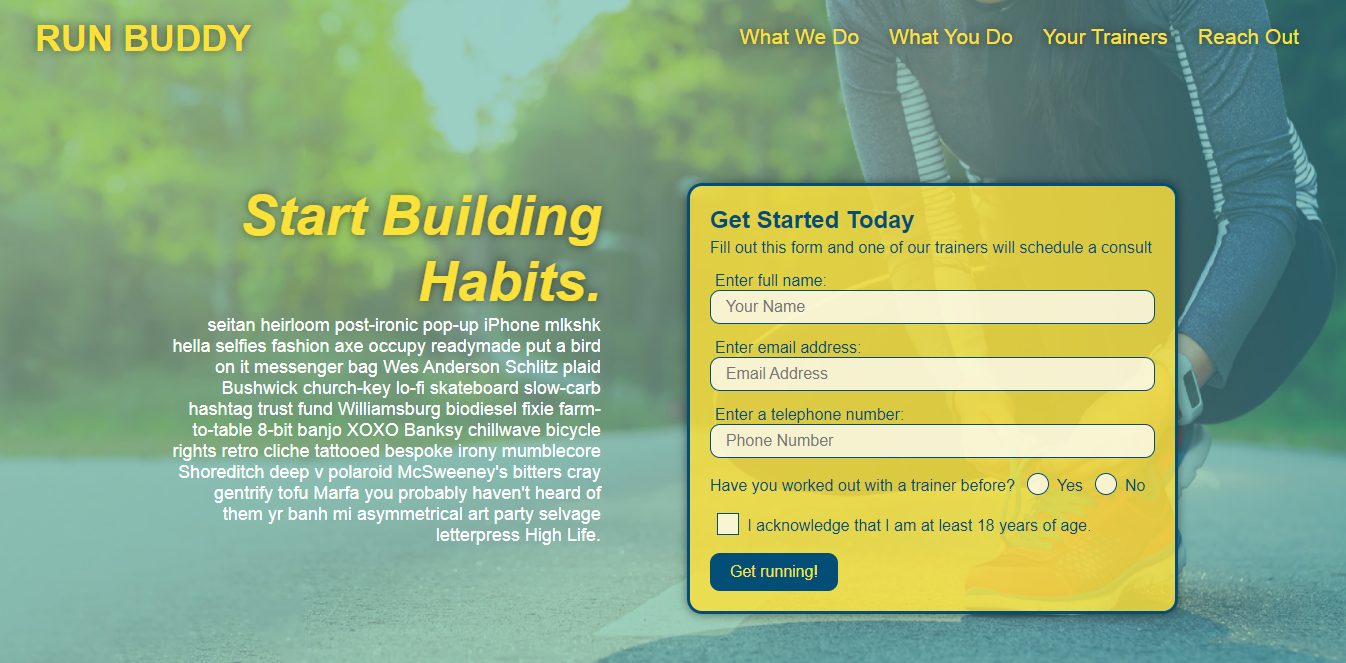
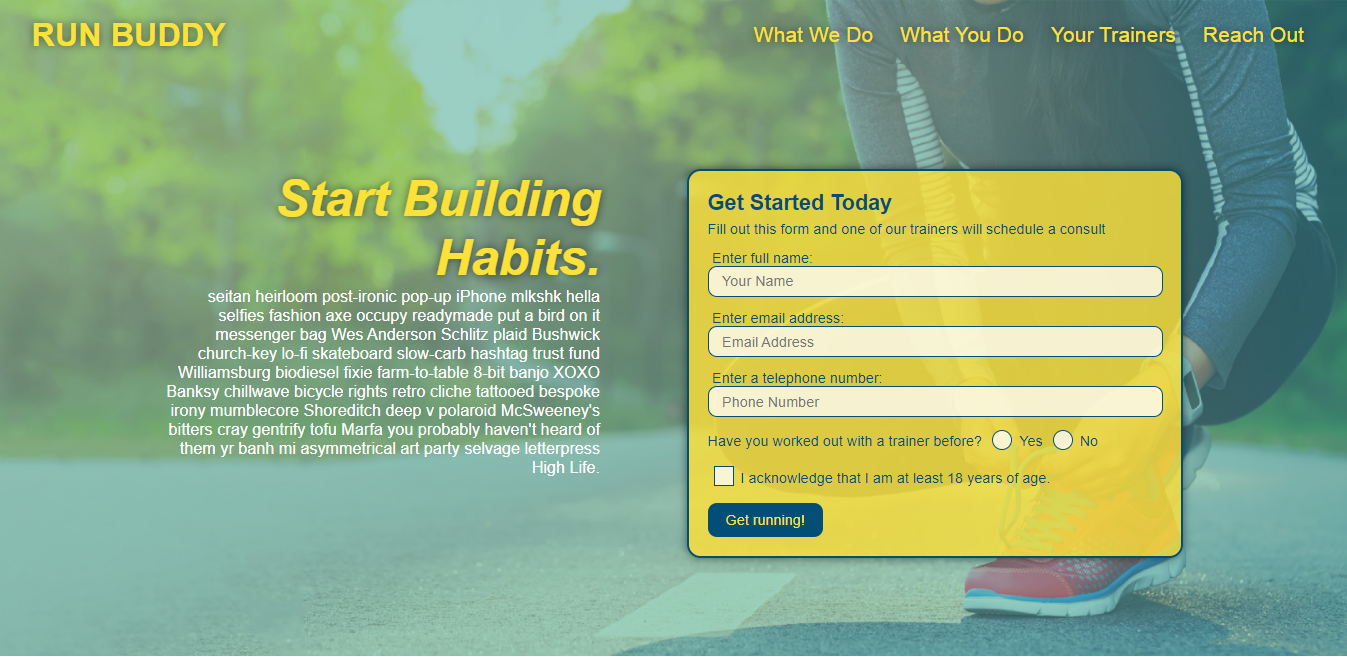
added some stuling for header, body, about me section, contact section

Changed region(s): [[0.0, 0.0304, 1.0, 1.0], [0.0, 0.0304, 0.1872, 0.0913], [0.9049, 0.9437, 0.9985, 1.0]]

diff --git a/style.css b/style.css
@@ -1,5 +1,138 @@
+:root {
+    --primary-color: #0bf0ab;
+    --secondary-color: #03633e;
+    --tertiary-color: #08bb34;
+}
+
+* {
+    box-sizing: border-box;
+    margin: 0;
+    padding: 0;
+  }
+
+  body {
+    color: var(--tertiary-color);
+    font-family: Helvetica, Arial, sans-serif;
+  }
+
+  /* HEADER*/
+
+header {
+    padding: 20px 35px;
+    background-color: var(--tertiary-color);
+    display: flex;
+    justify-content: space-between;
+    flex-wrap: wrap;
+    position: sticky;
+    position: -webkit-sticky;
+    top: 0;
+    background-image: url("./images/photo-1503252947848-7338d3f92f31.jpeg");
+    background-size: cover;
+    background-attachment: fixed;
+    background-position: 80%;
+    z-index: 9999;
+  }
+
+  header h1 {
+    font-weight: bold;
+    margin: 0;
+    font-size: 40px;
+    color: var(--primary-color);
+    text-shadow: 0 0 20px rgba(106, 245, 136, 0.5);
+  }
+  
+  header a {
+    text-decoration:underline;
+    color: var(--primary-color);
+  }
+  
+  header nav {
+    margin: 7px;
+  }
+  
+  header nav ul {
+    display: flex;
+    flex-wrap: wrap;
+    justify-content: space-between;
+    align-items: center;
+    list-style: none;
+  }
+  
+  header nav ul li a {
+    padding: 10px 15px;
+    font-weight: lighter;
+    font-size: 1.55vw;
+    text-shadow: 0 0 10px rgba(106, 245, 136, 0.5);
+  }
+  
+  header nav ul li a:hover {
+    background: var(--primary-color);
+    color: var(--secondary-color);
+    border-radius: 15px;
+    text-shadow: none;
+  }
+
+  section {
+    padding: 60px;
+  }
+
+  /* About me */
+.about {
+    width: 100%;
+    margin: 0 auto;
+    display: flex;
+    flex-wrap: wrap;
+    justify-content: space-around;
+  }
+  
+  .about {
+    margin: 20px;
+    flex: 1;
+    background: var(--secondary-color);
+    color: var(--primary-color);
+  }
+  
+  .my-picture img {
+    width: 20%;
+    float: right;
+  }
+  
+  .about p {
+    padding: 30px;
+    line-height: 4;
+    float: right;
+  }
+  
+  .about h2 {
+    font-size: 28px;
+    font-weight: lighter;
+    margin-bottom: 15px;
+  }
+  
+  /* Hero section */
+
+  .hero {
+    background-image: url('./images/photo-1503252947848-7338d3f92f31.jpeg');
+    background-size: cover;
+    display: flex;
+    justify-content: center;
+    flex-wrap: wrap;
+    align-items: flex-start;
+    background-attachment: fixed;
+    background-position: 80%;
+  }
 
 
+  /* SECTION TITLE STYLES START */
+.section-title {
+    font-size: 48px;
+    border-bottom: 3px solid;
+    color: var(--secondary-color);
+    padding-bottom: 20px;
+    text-align: center;
+    margin: 0 auto 35px auto;
+    width: 50%;
+  }
 /* Container for skill bars */
 .container {
     width: 100%; /* Full width */
@@ -16,3 +149,43 @@
 .html {width: 90%; background-color: #04AA6D;} /* Green */
 .css {width: 80%; background-color: #2196F3;} /* Blue */
 .js {width: 65%; background-color: #f44336;} /* Red */
+
+
+/* Contact */
+.contact {
+    background: #9ff1d1;
+    align-items: center;
+  }
+  
+  .contact h2 {
+    color: var(--primary-color);
+    font-size: 25px;
+    margin: 20px 0;
+    line-height: 1.5;
+    text-align: center;
+  }
+
+  .contact h3 {
+      color: var(--secondary-color);
+      font-size: 15px;
+      margin: 20px 0;
+      line-height: 1.5;
+      text-align: center;
+  }
+
+  .contact {
+    display: flex;
+    justify-content: space-between;
+    flex-wrap: wrap;
+  }
+  
+  .contact > * {
+    flex: 1;
+    margin: 15px;
+  }
+
+  .contact div {
+    color: white;
+  }
+
+

diff --git a/index.html b/index.html
@@ -27,13 +27,14 @@
                     <a href="#portfolio">Portfolio</a>
                 </li>
                 <li>
-                    <a href="#Contact">Contact</a>
+                    <a href="#contact">Contact</a>
                 </li>
             </ul>
         </nav>
     </header>
 
     <!--"About" section-->
+    <section class="hero">
     <section id="about" class="about-me">
         <nav>
             <h2 class="section-titile-first">About me</h2>
@@ -155,6 +156,7 @@
           </div>
         
     </section>
+</section>
     
 </body>
 </html>
